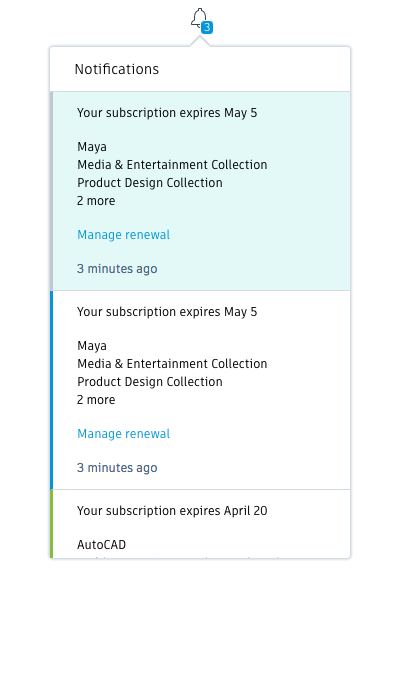
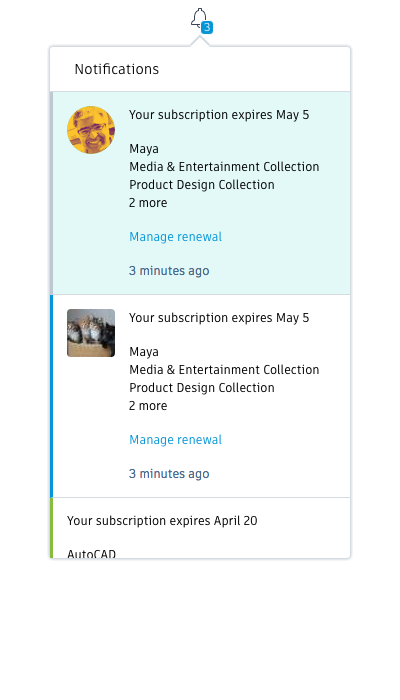
feat: add support for notification images

diff --git a/packages/notifications-flyout/src/presenters/NotificationPresenter.js b/packages/notifications-flyout/src/presenters/NotificationPresenter.js
@@ -32,6 +32,7 @@ export default function NotificationPresenter(props) {
     dismissButtonTitle,
     featured,
     height,
+    image,
     innerRef,
     onDismissButtonClick,
     showDismissButton,
@@ -63,14 +64,19 @@ export default function NotificationPresenter(props) {
       style={{ height }}
     >
       <div className={contentClasses}>
-        <RichText size="small">{children}</RichText>
-        {timestamp}
-        {showDismissButton ? (
-          <DismissButtonPresenter
-            onClick={onDismissButtonClick}
-            title={dismissButtonTitle}
-          />
+        {image ? (
+          <div className="hig__notification-v1__content-image">{image}</div>
         ) : null}
+        <div className="hig__notification-v1__content-text">
+          <RichText size="small">{children}</RichText>
+          {timestamp}
+          {showDismissButton ? (
+            <DismissButtonPresenter
+              onClick={onDismissButtonClick}
+              title={dismissButtonTitle}
+            />
+          ) : null}
+        </div>
       </div>
     </div>
   );
@@ -81,6 +87,7 @@ NotificationPresenter.propTypes = {
   dismissButtonTitle: PropTypes.string,
   featured: PropTypes.bool,
   height: PropTypes.string,
+  image: PropTypes.node,
   innerRef: PropTypes.func,
   onDismissButtonClick: PropTypes.func,
   showDismissButton: PropTypes.bool,

diff --git a/packages/notifications-flyout/src/__fixtures__/createSampleNotifications.js b/packages/notifications-flyout/src/__fixtures__/createSampleNotifications.js
@@ -1,7 +1,14 @@
 /* eslint-disable no-console */
 import React from "react";
+import Avatar, { sizes } from "@hig/avatar";
 import TextLink from "@hig/text-link";
 import Timestamp from "@hig/timestamp";
+import avatarImagePath from "@hig/storybook/storybook-support/fixtures/avatar/chris-reynolds.png";
+import "@hig/avatar/build/index.css";
+import "@hig/text-link/build/index.css";
+import "@hig/timestamp/build/index.css";
+
+import ImagePresenter from "../presenters/ImagePresenter";
 
 export default function createSampleNotifications() {
   const baseDate = new Date();
@@ -16,6 +23,13 @@ export default function createSampleNotifications() {
       featured: true,
       unread: true,
       timestamp: <Timestamp timestamp={new Date(updatedDate1).toISOString()} />,
+      image: (
+        <Avatar
+          name="Peter Parker"
+          image={avatarImagePath}
+          size={sizes.LARGE_48}
+        />
+      ),
       content: (
         <div>
           <p>
@@ -46,6 +60,7 @@ export default function createSampleNotifications() {
       id: "0",
       unread: true,
       timestamp: <Timestamp timestamp={new Date(updatedDate1).toISOString()} />,
+      image: <ImagePresenter alt="Mr. Fluffy" src="//placekitten.com/48/48" />,
       type: "primary",
       content: (
         <div>

diff --git a/packages/notifications-flyout/src/Notification.js b/packages/notifications-flyout/src/Notification.js
@@ -12,6 +12,8 @@ export default class Notification extends Component {
     featured: PropTypes.bool,
     /** An action provided hide the flyout. This is provided to the `children` render prop */
     hideFlyout: PropTypes.func.isRequired,
+    /** An image to display such as an avatar or and icon */
+    image: PropTypes.node,
     /** A callback called when user dismisses a featured notification */
     onDismiss: PropTypes.func,
     /** Determines whether the dismiss button is shown */
@@ -52,6 +54,7 @@ export default class Notification extends Component {
   render() {
     const {
       featured,
+      image,
       onDismiss,
       // Featured notifications show the dismiss button by default
       showDismissButton = featured,
@@ -66,6 +69,7 @@ export default class Notification extends Component {
           <NotificationPresenter
             featured={featured}
             height={height}
+            image={image}
             innerRef={innerRef}
             onDismissButtonClick={handleDismissButtonClick}
             showDismissButton={showDismissButton}

diff --git a/packages/notifications-flyout/src/index.js b/packages/notifications-flyout/src/index.js
@@ -1,10 +1,12 @@
 import "@hig/styles/build/fonts.css";
 
+import Image from "./presenters/ImagePresenter";
 import NotificationsFlyout from "./NotificationsFlyout";
 import Notification from "./Notification";
 
+NotificationsFlyout.Image = Image;
 NotificationsFlyout.Notification = Notification;
 
-export { NotificationsFlyout as default, Notification };
+export { NotificationsFlyout as default, Image, Notification };
 export { types, AVAILABLE_TYPES } from "./types";
 export { anchorPoints, AVAILABLE_ANCHOR_POINTS } from "@hig/flyout";

diff --git a/packages/notifications-flyout/src/presenters/ImagePresenter.test.js b/packages/notifications-flyout/src/presenters/ImagePresenter.test.js
@@ -1,0 +1,16 @@
+import { takeSnapshotsOf } from "@hig/jest-preset/helpers";
+
+import ImagePresenter from "./ImagePresenter";
+
+describe("notifications-flyout/presenters/ImagePresenter", () => {
+  takeSnapshotsOf(ImagePresenter, [
+    {
+      desc: "renders with img props",
+      props: {
+        alt: "hello",
+        src: "//example.com/random.png",
+        "data-something": "anything"
+      }
+    }
+  ]);
+});

diff --git a/packages/notifications-flyout/src/presenters/NotificationPresenter.scss b/packages/notifications-flyout/src/presenters/NotificationPresenter.scss
@@ -25,7 +25,7 @@
 }
 
 .hig__notification-v1__content {
-  padding: spacing(s) spacing(l);
+  display: flex;
   border-bottom: 1px solid color(hig-cool-gray-20);
   border-left: 3px solid color(hig-cool-gray-30);
 
@@ -73,4 +73,12 @@
       );
     }
   }
+}
+
+.hig__notification-v1__content-image {
+  margin: 14px 0 14px 14px;
+}
+
+.hig__notification-v1__content-text {
+  margin: 14px;
 }

diff --git a/packages/notifications-flyout/src/index.test.js b/packages/notifications-flyout/src/index.test.js
@@ -7,7 +7,15 @@ describe("notifications-flyout/index", () => {
       value: expect.any(Function)
     },
     {
+      name: "default.Image",
+      value: expect.any(Function)
+    },
+    {
       name: "default.Notification",
+      value: expect.any(Function)
+    },
+    {
+      name: "Image",
       value: expect.any(Function)
     },
     {

diff --git a/packages/notifications-flyout/src/presenters/ImagePresenter.js b/packages/notifications-flyout/src/presenters/ImagePresenter.js
@@ -1,0 +1,8 @@
+/* eslint-disable jsx-a11y/alt-text */
+import React from "react";
+
+import "./ImagePresenter.scss";
+
+export default function ImagePresenter(props) {
+  return <img className="hig__notification-v1__image" {...props} />;
+}

diff --git a/packages/notifications-flyout/src/presenters/ImagePresenter.scss b/packages/notifications-flyout/src/presenters/ImagePresenter.scss
@@ -1,0 +1,6 @@
+.hig__notification-v1__image {
+  height: 48px;
+  width: 48px;
+  overflow: hidden;
+  border-radius: 4px;
+}
